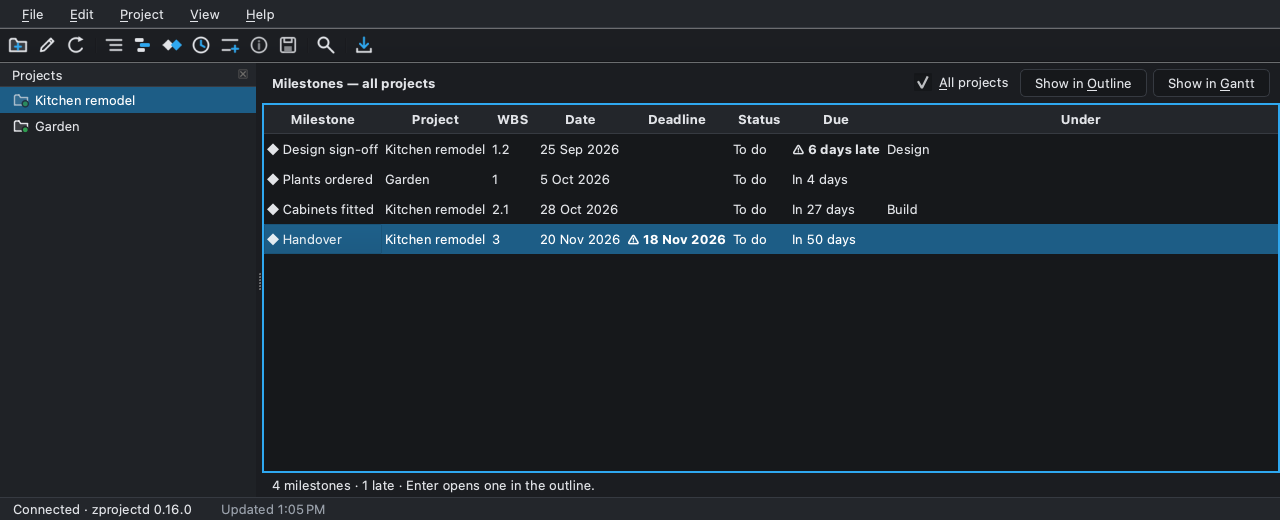
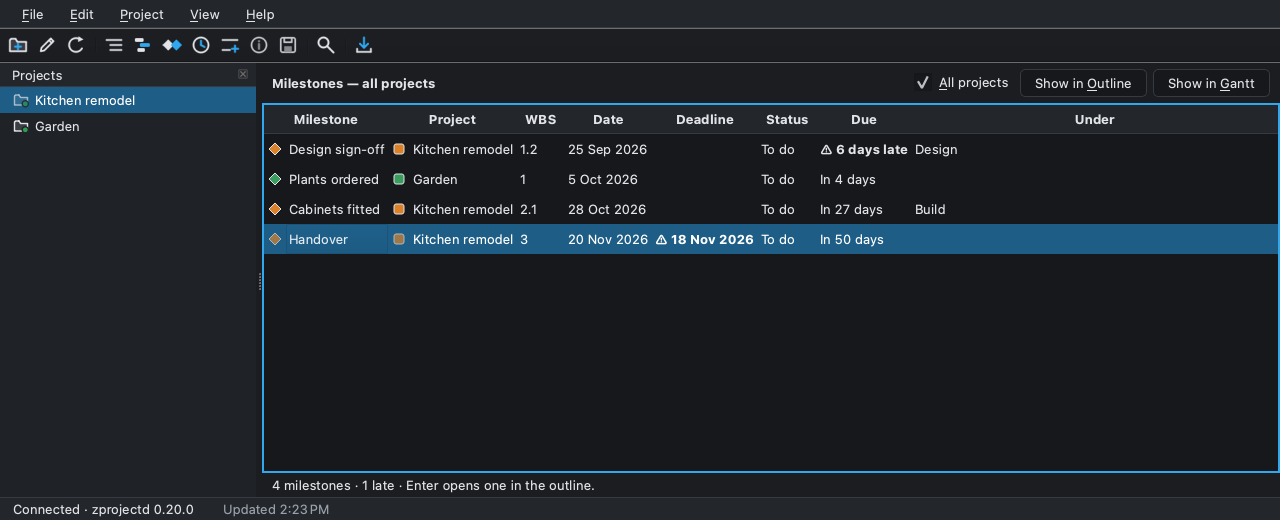
Desktop: project colours in the all-projects Milestones view (0.20.0) (#26)
With All projects ticked, each milestone's diamond and its Project cell
take the project's colour (hollow when done, outlined in the theme's text
colour). The project name stays in words; one project, or a project
without a colour, keeps the plain diamond. Help, tests, screenshots.

diff --git a/tests/tst_milestones.cpp b/tests/tst_milestones.cpp
@@ -17,6 +17,7 @@
 #include <QSignalSpy>
 #include <QStackedWidget>
 #include <QStyleFactory>
+#include <QImage>
 #include <QTableWidget>
 #include <QTemporaryDir>
 #include <QTest>
@@ -89,11 +90,13 @@ QList<MilestoneSource> sample() {
             jt("b1", "Permit granted", "b", 1, "milestone", "2026-09-10", "done"),
             jt("b2", "Inspection", "b", 2, "milestone"),  // no date yet
             handover},
-           {}},
+           {},
+           QStringLiteral("#d9822b")},
           {QStringLiteral("g"), QStringLiteral("Garden"),
            {jt("g1", "Plants ordered", nullptr, 1, "milestone", "2026-10-01"),
             jt("g2", "Planting done", nullptr, 2, "milestone", "2026-10-02")},
-           {}}};
+           {},
+           QString()}};  // the garden has no colour
 }
 
 const MilestoneRow* rowOf(const QList<MilestoneRow>& rows, const QString& id) {
@@ -204,8 +207,10 @@ class TestMilestones : public QObject {
     Project p;
     p.name = QStringLiteral("Kitchen remodel");
     p.owner = QStringLiteral("Alex Rivera");
+    p.color = QStringLiteral("#d9822b");
     kitchen_ = store_->createProject(p, kOther).value().id;
     p.name = QStringLiteral("Garden");
+    p.color = QStringLiteral("#3a9d5d");
     garden_ = store_->createProject(p, kOther).value().id;
     ids_.clear();
     add(kitchen_, QStringLiteral("Design"), {});
@@ -323,11 +328,52 @@ class TestMilestones : public QObject {
     QCOMPARE(v.table()->rowCount(), 6);
     // Nothing to show.
     v.setAllProjects(false);
-    v.reload({{QStringLiteral("e"), QStringLiteral("Empty"), {jt("t", "Task", nullptr, 1)}, {}}});
+    v.reload({{QStringLiteral("e"), QStringLiteral("Empty"), {jt("t", "Task", nullptr, 1)}, {}, QString()}});
     QCOMPARE(v.table()->rowCount(), 0);
     QVERIFY(v.note()->text().contains(QStringLiteral("no milestones")));
     QVERIFY(!v.outlineButton()->isEnabled());
     QVERIFY(!v.ganttButton()->isEnabled());
+  }
+
+  void projectColours() {
+    // The rows carry the project's colour; a project without one has none.
+    const QList<MilestoneRow> rows = milestoneRows(sample(), kToday);
+    QCOMPARE(rowOf(rows, QStringLiteral("h"))->projectColor, QColor(QStringLiteral("#d9822b")));
+    QVERIFY(!rowOf(rows, QStringLiteral("g1"))->projectColor.isValid());
+    MilestonesView v;
+    v.setToday(kToday);
+    v.setOutlineColor(Qt::black);
+    // One project: plain text diamonds, no colour.
+    v.reload({sample().first()});
+    QVERIFY(v.table()->item(0, C::Title)->icon().isNull());
+    QVERIFY(v.table()->item(0, C::Title)->text().startsWith(QStringLiteral("◇")));  // b1 is done
+    // All projects: the kitchen's diamonds and Project cells in its colour
+    // (hollow when done); the garden's stay text.
+    v.setAllProjects(true);
+    v.reload(sample());
+    for (int i = 0; i < v.rows().size(); ++i) {
+      const MilestoneRow& r = v.rows().at(i);
+      QTableWidgetItem* title = v.table()->item(i, C::Title);
+      QTableWidgetItem* project = v.table()->item(i, C::Project);
+      if (r.projectId == QLatin1String("k")) {
+        QVERIFY(!title->icon().isNull());
+        QVERIFY(!project->icon().isNull());
+        QCOMPARE(title->text(), r.title);  // the drawn diamond replaces the text one
+        QVERIFY(project->toolTip().contains(QStringLiteral("#d9822b")));
+        // The swatch is the project's colour.
+        const QImage img = project->icon().pixmap(16, 16).toImage();
+        QCOMPARE(img.pixelColor(8, 8), QColor(QStringLiteral("#d9822b")));
+      } else {
+        QVERIFY(title->icon().isNull());
+        QVERIFY(title->text().startsWith(QStringLiteral("◆")));
+      }
+      // Still said in words.
+      QVERIFY(title->data(Qt::AccessibleTextRole).toString().contains(r.projectName));
+    }
+    // Back to one project: colours go.
+    v.setAllProjects(false);
+    v.reload({sample().first()});
+    QVERIFY(v.table()->item(1, C::Title)->icon().isNull());
   }
 
   void enterAsksToOpen() {

diff --git a/app/MilestonesView.cpp b/app/MilestonesView.cpp
@@ -8,6 +8,8 @@
 #include <QKeyEvent>
 #include <QLabel>
 #include <QLocale>
+#include <QPainter>
+#include <QPixmap>
 #include <QPushButton>
 #include <QTableWidget>
 #include <QVBoxLayout>
@@ -26,6 +28,30 @@ constexpr int kProjectIdRole = Qt::UserRole + 2;
 QString str(const QJsonObject& o, const char* key) { return o.value(QLatin1String(key)).toString(); }
 
 QString dateText(const QDate& d) { return d.isValid() ? QLocale().toString(d, QStringLiteral("d MMM yyyy")) : QString(); }
+
+// A milestone diamond (or, `square`, a swatch) in a project's colour,
+// outlined in the theme's text colour so a pale colour still shows on any
+// background; hollow once done.
+QIcon swatch(const QColor& fill, const QColor& outline, bool hollow, bool square) {
+  QIcon icon;
+  for (int size : {16, 32}) {
+    QPixmap px(size, size);
+    px.fill(Qt::transparent);
+    QPainter p(&px);
+    p.setRenderHint(QPainter::Antialiasing);
+    const qreal k = size / 16.0;
+    p.setPen(QPen(hollow ? fill : outline, (hollow ? 2.0 : 1.0) * k));
+    p.setBrush(hollow ? QBrush(Qt::NoBrush) : QBrush(fill));
+    if (square) {
+      p.drawRoundedRect(QRectF(3 * k, 3 * k, 10 * k, 10 * k), 2 * k, 2 * k);
+    } else {
+      p.drawPolygon(QPolygonF({QPointF(8 * k, 2 * k), QPointF(14 * k, 8 * k), QPointF(8 * k, 14 * k), QPointF(2 * k, 8 * k)}));
+    }
+    p.end();
+    icon.addPixmap(px);
+  }
+  return icon;
+}
 
 // "1.10" after "1.9": WBS codes compare part by part.
 bool wbsLess(const QString& a, const QString& b) {
@@ -53,6 +79,11 @@ QList<MilestoneRow> milestoneRows(const QList<MilestoneSource>& sources, const Q
       MilestoneRow r;
       r.projectId = s.projectId;
       r.projectName = s.projectName;
+      // #rrggbb only (the project's validated colour); QColor(QString) is in Qt 6.4.
+      if (s.projectColor.size() == 7 && s.projectColor.startsWith(QLatin1Char('#'))) {
+        const QColor c(s.projectColor);
+        if (c.isValid()) r.projectColor = c;
+      }
       r.taskId = id;
       r.title = str(t, "title");
       r.wbs = model.wbsCode(id);
@@ -165,6 +196,27 @@ MilestonesView::MilestonesView(QWidget* parent) : QWidget(parent), today_(QDate:
 
 void MilestonesView::setToday(const QDate& today) { today_ = today; }
 
+void MilestonesView::setOutlineColor(const QColor& c) {
+  outline_ = c;
+  decorate();
+}
+
+void MilestonesView::decorate() {
+  const bool all = allProjects();
+  for (int i = 0; i < rows_.size() && i < table_->rowCount(); ++i) {
+    const MilestoneRow& r = rows_.at(i);
+    QTableWidgetItem* title = table_->item(i, Title);
+    QTableWidgetItem* project = table_->item(i, Project);
+    if (title == nullptr || project == nullptr) continue;
+    const bool coloured = all && r.projectColor.isValid();
+    // With a colour the drawn diamond replaces the text one.
+    title->setText(coloured ? r.title : (r.done ? QStringLiteral("◇ ") : QStringLiteral("◆ ")) + r.title);
+    title->setIcon(coloured ? swatch(r.projectColor, outline_, r.done, false) : QIcon());
+    project->setIcon(coloured ? swatch(r.projectColor, outline_, false, true) : QIcon());
+    project->setToolTip(coloured ? tr("%1 (colour %2)").arg(r.projectName, r.projectColor.name()) : r.projectName);
+  }
+}
+
 void MilestonesView::setProject(const QString& id, const QString& name) {
   projectId_ = id;
   projectName_ = name;
@@ -223,6 +275,7 @@ void MilestonesView::reload(const QList<MilestoneSource>& sources) {
     put(Parent, r.parentTitle);
     if (r.taskId == keep) table_->setCurrentCell(i, Title);
   }
+  decorate();
   table_->resizeColumnsToContents();
   if (table_->currentRow() < 0 && !rows_.isEmpty()) table_->setCurrentCell(0, Title);
 

diff --git a/app/MilestonesView.hpp b/app/MilestonesView.hpp
@@ -1,5 +1,6 @@
 #pragma once
 
+#include <QColor>
 #include <QDate>
 #include <QJsonArray>
 #include <QJsonObject>
@@ -20,12 +21,14 @@ struct MilestoneSource {
   QString projectName;
   QList<QJsonObject> tasks;
   QJsonArray wbs;
+  QString projectColor;  // the project's #rrggbb, or empty
 };
 
 // One milestone (a task of type "milestone") with what the view shows.
 struct MilestoneRow {
   QString projectId;
   QString projectName;
+  QColor projectColor;  // invalid: the project has none
   QString taskId;
   QString title;
   QString wbs;          // "1.4", numbered as the outline numbers it
@@ -51,7 +54,10 @@ QString milestoneDueText(const MilestoneRow& row);
 QString milestoneAccessibleText(const MilestoneRow& row, bool withProject);
 
 // View → Milestones (Ctrl + Shift + M): the selected project's milestones,
-// or every project's with "All projects" ticked. Read-only; Enter (or a
+// or every project's with "All projects" ticked. Showing them all, a
+// milestone's diamond and its Project cell take the project's colour (a
+// swatch outlined in the theme's text colour; the name is still there in
+// words, so colour is never the only cue). Read-only; Enter (or a
 // double-click) opens the milestone in the outline, Show in Gantt opens it
 // on the timeline.
 class MilestonesView : public QWidget {
@@ -62,6 +68,8 @@ class MilestonesView : public QWidget {
   explicit MilestonesView(QWidget* parent = nullptr);
 
   void setToday(const QDate& today);
+  // The theme's text colour, for the outline round project colours.
+  void setOutlineColor(const QColor& c);
   QDate today() const { return today_; }
   // The selected project, named in the heading when not showing them all.
   void setProject(const QString& id, const QString& name);
@@ -96,8 +104,10 @@ class MilestonesView : public QWidget {
   void updateHeading();
   void updateButtons();
   void open(bool gantt);
+  void decorate();  // project colours on the rows (all projects only)
 
   QDate today_;
+  QColor outline_ = Qt::black;
   QString projectId_;
   QString projectName_;
   QList<MilestoneRow> rows_;

diff --git a/app/MainWindow.cpp b/app/MainWindow.cpp
@@ -620,6 +620,7 @@ void MainWindow::applyAppearance() {
   for (QAction* a : themeGroup_->actions()) a->setChecked(a->data().toString() == settings_.theme);
   applyIcons(c);
   if (gantt_) gantt_->setColors(c);
+  if (milestones_) milestones_->setOutlineColor(c.fg);
   if (action(QStringLiteral("actionZoomIn")))
     action(QStringLiteral("actionZoomIn"))->setEnabled(settings_.zoomPercent < ViewZoom::kMaxPercent);
   if (action(QStringLiteral("actionZoomOut")))
@@ -1128,10 +1129,10 @@ void MainWindow::showProject(const QString& id) {
         const QString oid = other.value(QStringLiteral("id")).toString();
         if (isClosed(other.value(QStringLiteral("status")).toString()) && !showClosed_->isChecked() && oid != id) continue;
         sources.append({oid, other.value(QStringLiteral("name")).toString(), session_->cache()->tasks(oid),
-                        session_->cache()->wbs(oid)});
+                        session_->cache()->wbs(oid), other.value(QStringLiteral("color")).toString()});
       }
     } else {
-      sources.append({id, name, tasks, session_->cache()->wbs(id)});
+      sources.append({id, name, tasks, session_->cache()->wbs(id), get("color")});
     }
     milestones_->reload(sources);
     stack_->setCurrentWidget(milestones_);

diff --git a/CHANGELOG.md b/CHANGELOG.md
@@ -7,6 +7,23 @@ documentation, minor for features) and adds an entry here. A PR dates its own
 heading. Releases are tagged `vX.Y.Z` and minisign-signed (SPEC.md §20,
 [docs/RELEASING.md](docs/RELEASING.md)). The first release is v0.4.0.
 
+## 0.20.0 — 2026-11-23
+
+Project colours in the all-projects Milestones view (scheduling plan, side
+PR agreed 2026-11-23).
+
+- With **All projects** ticked, each milestone's diamond and its Project
+  cell take the project's colour (the `color` set in Edit Project Details).
+  A done milestone's diamond is hollow. Both are outlined in the theme's text
+  colour, so a pale colour still shows in Light, Dark and High contrast.
+- The project's name stays in its own column and in each row's accessible
+  description, so colour is never the only cue. Projects without a colour,
+  and the single-project view, keep the plain ◆ / ◇.
+- Help describes it. `tst_milestones` checks the colours (the swatch's
+  pixels), hollow done diamonds, no colour on one project or without a
+  project colour, and that the text stays. The screenshots now show two
+  coloured projects.
+
 ## 0.19.0 — 2026-11-23
 
 Scheduling plan, PR S3: dependencies on the server (plan §3; SPEC §5.1,

diff --git a/README.md b/README.md
@@ -1,6 +1,6 @@
 # zproject
 
-**0.19.0**
+**0.20.0**
 
 Current release: **0.13.0**
 
@@ -43,8 +43,8 @@ View → Gantt (Ctrl + G) shows the project read-only as a timeline beside
 the task table: day to quarter timescales, a today line, bars from the
 stored dates, summary brackets, milestone diamonds, progress and deadline
 flags, all readable by screen readers. View → Milestones (Ctrl + Shift + M)
-lists the project's milestones, or every project's, by date, with days to
-go or days late and missed deadlines; Enter opens one in the outline, and
+lists the project's milestones, or every project's (each in its project's
+colour), by date, with days to go or days late and missed deadlines; Enter opens one in the outline, and
 Show in Gantt on the timeline. View → Activity (Ctrl + Shift + A) lists
 what changed in the project, newest first, from the change feed the app
 already keeps: when, who ("This computer" for this device's token), which

diff --git a/app/help/zproject-help.md b/app/help/zproject-help.md
@@ -119,6 +119,9 @@ date: its WBS code, date, deadline, status, the summary it sits under, and
 how far away it is ("In 4 days", "Today", "6 days late"). Milestones with no
 date yet come last. Tick **All projects** to see every project's milestones
 in one list (done and cancelled projects only when the sidebar shows them).
+There, each milestone's diamond and its Project cell take the project's
+colour (set it in **Project → Edit Project Details…**); the project's name is
+always there too.
 
 - A milestone that is late, or dated after its deadline, is marked ⚠ and
   says so in words.

diff --git a/SPEC.md b/SPEC.md
@@ -1,6 +1,6 @@
 # zproject — Project specification
 
-This specification describes zproject **0.19.0**, the version in `CMakeLists.txt`
+This specification describes zproject **0.20.0**, the version in `CMakeLists.txt`
 (`scripts/check-version.sh` keeps the two in step).
 
 **Status: Approved / locked 2026-11-20** (Stephen: "go with the recs",
